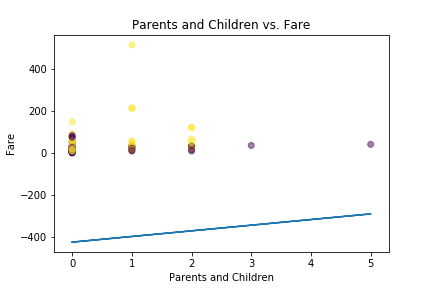
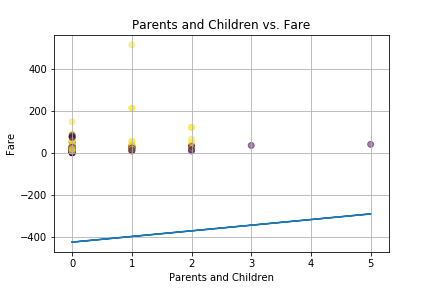
Final Commit

diff --git a/assignment1/Titanic Assignment.py b/assignment1/Titanic Assignment.py
@@ -1,0 +1,307 @@
+#!/usr/bin/env python
+# coding: utf-8
+
+# In[2]:
+
+
+import numpy as np
+import matplotlib.pyplot as plt
+
+plt.rcParams["savefig.format"]="png"
+#plt.rcParams['figure.figsize'] = [16,9]
+np.random.seed(0)
+
+
+# In[3]:
+
+
+#Import Data
+names=["Class", "Gender", "Age", "Sibling and Spouses", "Parents and Children" , "Fare", "Survivors"]
+data = np.loadtxt("titanic-train.txt")
+test_data = np.loadtxt("titanic-test.txt")
+#print(test_data.shape)
+
+for i in range(7):
+    plt.title(names[i])
+    plt.xlabel(names[i])
+    plt.ylabel("Relative Frequency")
+    plt.grid(1)
+    plt.hist(data[:,i], weights=(np.zeros_like(data[:,i])+1./data[:,i].size)*100)
+    #plt.show()
+    plt.savefig("images/"+names[i])
+    plt.clf()
+
+cl=data[:,0]
+sex=data[:,1]
+surv=data[:,6]
+a=np.zeros(3)
+b=np.zeros(2)
+for i in range(cl.size):
+    if sex[i]==0 and surv[i]==1:
+        b[0]+=1
+    if sex[i]==1 and surv[i]==1:
+        b[1]+=1
+    if cl[i]==1 and surv[i]==1:
+        a[0]+=1
+    elif cl[i]==2 and surv[i]==1:
+        a[1]+=1
+    elif cl[i]==3 and surv[i]==1:
+        a[2]+=1
+        
+#a[2]=cl.size-a[0]-a[1]
+labc=[1,2,3]
+labs=["Male", "Female"]
+a/=a.sum()/100
+b*=100/b.sum()
+plt.bar(labc,a)
+plt.grid(1)
+plt.title("Class Survival Empirical Probability")
+plt.xlabel("Class")
+plt.ylabel("Surviving Probability")
+#plt.show()
+plt.savefig("images/"+"class_emp")
+plt.clf()
+
+plt.bar(labs,b)
+plt.grid(1)
+plt.title("Gender Survival Empirical Probability")
+plt.xlabel("Gender")
+plt.ylabel("Surviving Probability")
+#plt.show()
+plt.savefig("images/"+"gend_emp")
+plt.clf()
+
+#Plot Data Correlation
+for i in range(6):
+    for j in range(i+1,6):
+        print(i,j)
+        plt.title(names[i] + " vs. " + names[j])
+        plt.xlabel(names[i])
+        plt.ylabel(names[j])
+        plt.scatter(data[:,i], data[:,j], c=data[:,6], alpha=0.5)
+        plt.grid(1)
+        #plt.show()
+        plt.savefig("images/"+names[i] + " vs. " + names[j]+".png")
+        plt.clf()
+
+
+# In[4]:
+
+
+#Logistic Regression Functions
+
+def sigmoid(z):
+    return 1./(1.+np.exp(-z))
+
+def logreg_inference(x,w,b):
+    return sigmoid(x@w+b)
+
+def cross_entropy(p,y):
+    return (-y*np.log(p)-(1-y)*np.log(1-p)).mean()
+
+def logreg_train(x, y, epochs, lr,l, x_t,y_t):
+    s_loss=np.zeros(epochs)
+    s_tloss=np.zeros(epochs)
+    s_acc=np.zeros(epochs)
+    s_tacc=np.zeros(epochs)
+    m,n=x.shape
+    w=np.zeros(n)
+    b=0
+    n=0
+    print("Steps  Loss  Accuracy")
+    for step in range(epochs):
+        p=logreg_inference(x,w,b)
+        s_loss[step]=cross_entropy(p,y)
+        predictions=np.asarray(p>0.5)
+        s_acc[step]=np.asarray(predictions==y).mean()
+        pt=logreg_inference(x_t,w,b)
+        tpred=np.asarray(pt>0.5)
+        s_tloss[step]= cross_entropy(pt,y_t)
+        s_tacc[step]= np.asarray(tpred==y_t).mean()
+        if step%10000==0:
+            #print(step, loss)
+            print(step, s_loss[step], s_tloss[step], s_acc[step]*100, s_tacc[step]*100)
+        grad_b=(p-y).mean()#+2*l*(b)
+        grad_w=(x.T@(p-y))/m+2*l*(w)
+        b-=lr*grad_b
+        w-=lr*grad_w
+    
+    np.save("loss", s_loss)
+    np.save("loss_test", s_tloss)
+    np.save("accuracy", s_acc)
+    np.save("accuracy_test",s_tacc)
+    return w,b
+
+#Assign Data and Labels
+x=data[:,:6]
+y=data[:,6]
+x_t=test_data[:,:6]
+y_t=test_data[:,6]
+
+
+# In[5]:
+
+
+#Training
+w,b = logreg_train(x,y, int(2*1e5),0.001,0., x_t,y_t)
+p=logreg_inference(x,w,b)
+predictions=(p>0.5)
+accuracy=(predictions==y).mean()
+print("Training Set Accuracy: ", accuracy*100)
+
+
+# In[6]:
+
+
+s_loss=np.load("loss.npy")
+s_tloss=np.load("loss_test.npy")
+s_acc=np.load("accuracy.npy")
+s_tacc=np.load("accuracy_test.npy")
+
+plt.plot(s_loss, label="Training Loss")
+plt.plot(s_tloss, label="Test Loss")
+plt.grid(1)
+plt.legend()
+plt.title("Loss Functions")
+plt.xlabel("Steps")
+plt.ylabel("Loss Value")
+plt.savefig("images/"+"losses")
+plt.clf()
+#plt.show()
+
+plt.plot(s_acc, label="Training Accuracy")
+plt.plot(s_tacc, label="Test Accuracy")
+plt.grid(1)
+plt.legend()
+plt.title("Accuracy")
+plt.xlabel("Steps")
+plt.ylabel("Accuracy Value")
+plt.savefig("images/"+"acc")
+plt.clf()
+#plt.show()
+
+
+# In[7]:
+
+
+#Results on the Training Set
+print(w,b)
+
+for i in range(6):
+    for j in range(i+1,6):
+        print(i,j)
+        plt.title(names[i] + " vs. " + names[j])
+        plt.xlabel(names[i])
+        plt.ylabel(names[j])
+        decision_bound=-w[i]/w[j]*data[:,i]-b/w[j]
+        plt.plot(data[:,i], decision_bound, label="Decision Bound")
+        plt.scatter(data[:,i], data[:,j], c=data[:,6], alpha=0.5, label="Data")
+        plt.savefig("images/"+"bound_"+ names[i] + " vs. " + names[j]+".png")
+        plt.clf()
+        #plt.show()
+
+
+# In[8]:
+
+
+#Guess a Survival Probability
+guess_data=np.zeros((1,6))
+
+for i in range(5):
+    guess_data[0][i]=np.random.randint(data[:,i].min(), data[:,i].max())
+
+guess_data[0][5]=(data[:,5].max()-data[:,5].min())*np.random.rand()+data[:,5].min()
+print(guess_data)
+
+prob_guess=logreg_inference(guess_data,w,b)
+print("Random Guess: ", prob_guess*100)
+
+#Educated Guess
+
+guess_data[0][0]=1
+guess_data[0][1]=1
+edn=int(1e5)
+ed_g=np.zeros(edn)
+ed_d=np.zeros(edn)
+
+for i in range(edn):
+    guess_data[0][0]=1
+    guess_data[0][1]=1
+    for j in range(2,5):
+        guess_data[0][j]=np.random.randint(data[:,j].min(), data[:,j].max())
+    guess_data[0][3]=1
+    ed_g[i]=logreg_inference(guess_data,w,b)
+    guess_data[0][0]=3
+    guess_data[0][1]=0
+    guess_data[0][3]=8
+    ed_d[i]=logreg_inference(guess_data,w,b)
+
+bins=np.zeros(10)
+bind=np.zeros(10)
+for i in range(edn):
+    for j in range(10):
+        if ed_g[i]*100<(j+1)*10 and ed_g[i]*100>j*10:
+            bins[j]+=1
+        if ed_d[i]*100<(j+1)*10 and ed_d[i]*100>j*10:
+            bind[j]+=1
+
+pl=np.zeros(10)
+for i in range(10):
+    pl[i]=(10*i+5)
+print(pl)
+plt.bar(pl,bins/bins.sum(), width=8, label="Women, Alone, 1 Class")
+plt.bar(pl,bind/bind.sum(), width=8, label="Man, Not Alone, 3 Class")
+plt.title(str(edn)+ " Educated Guesses")
+plt.legend()
+plt.grid()
+plt.xticks(list(pl), pl)
+plt.xlabel("Survival Probability")
+plt.ylabel("Educated Guesses Percentage")
+plt.savefig("images/"+"ed_guess")
+plt.clf()
+#plt.show()
+prob_guess=logreg_inference(guess_data,w,b)
+print("Educated Guess: ",prob_guess*100)
+
+
+# In[9]:
+
+
+#Evaluate the model on test data
+p=logreg_inference(x_t,w,b)
+predictions=(p>0.5)
+accuracy=(predictions==y_t).mean()
+print("Test Accuracy: ", accuracy*100)
+
+for i in range(6):
+    for j in range(i+1,6):
+        print(i,j)
+        plt.title(names[i] + " vs. " + names[j])
+        plt.xlabel(names[i])
+        plt.ylabel(names[j])
+        decision_bound=-w[i]/w[j]*test_data[:,i]-b/w[j]
+        plt.plot(test_data[:,i], decision_bound, label="Decision Bound")
+        plt.scatter(test_data[:,i], test_data[:,j], c=test_data[:,6], alpha=0.5, label="Data")
+        plt.grid(1)
+        plt.savefig("images/"+"test_bound_"+names[i] + " vs. " + names[j]+".png")
+        plt.clf()
+        #plt.show()
+
+
+# In[ ]:
+
+
+
+
+
+# In[ ]:
+
+
+
+
+
+# In[ ]:
+
+
+
+
